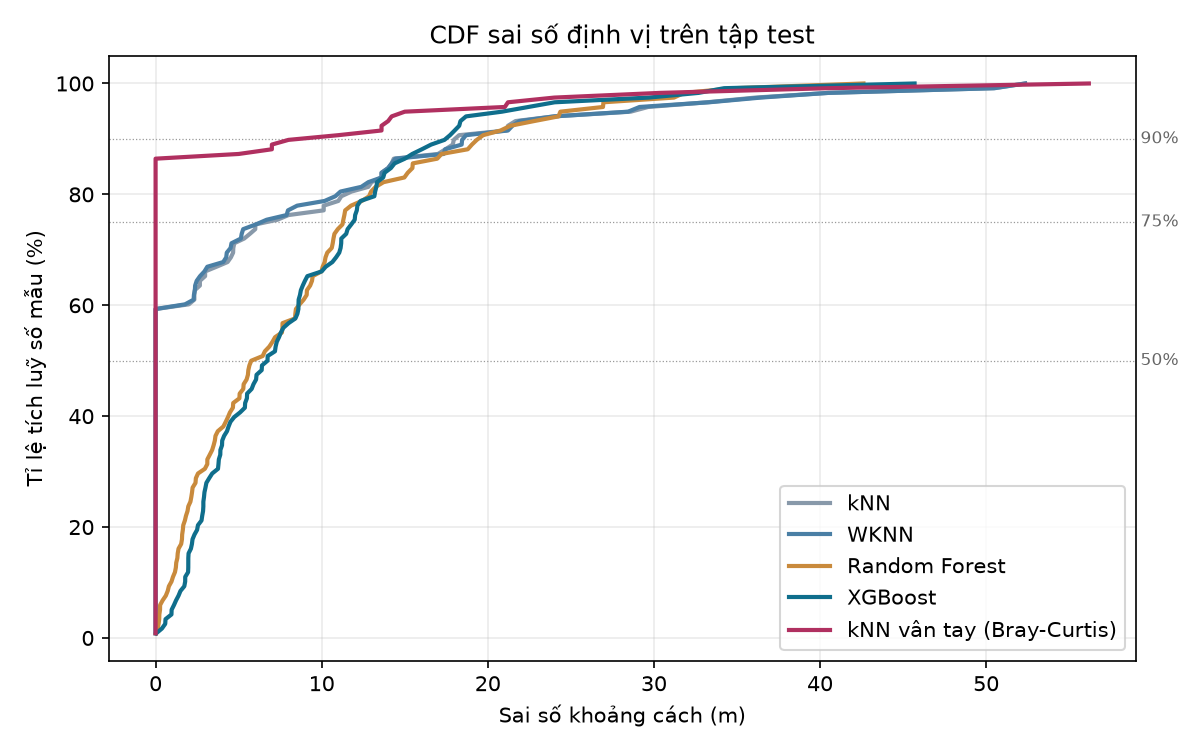
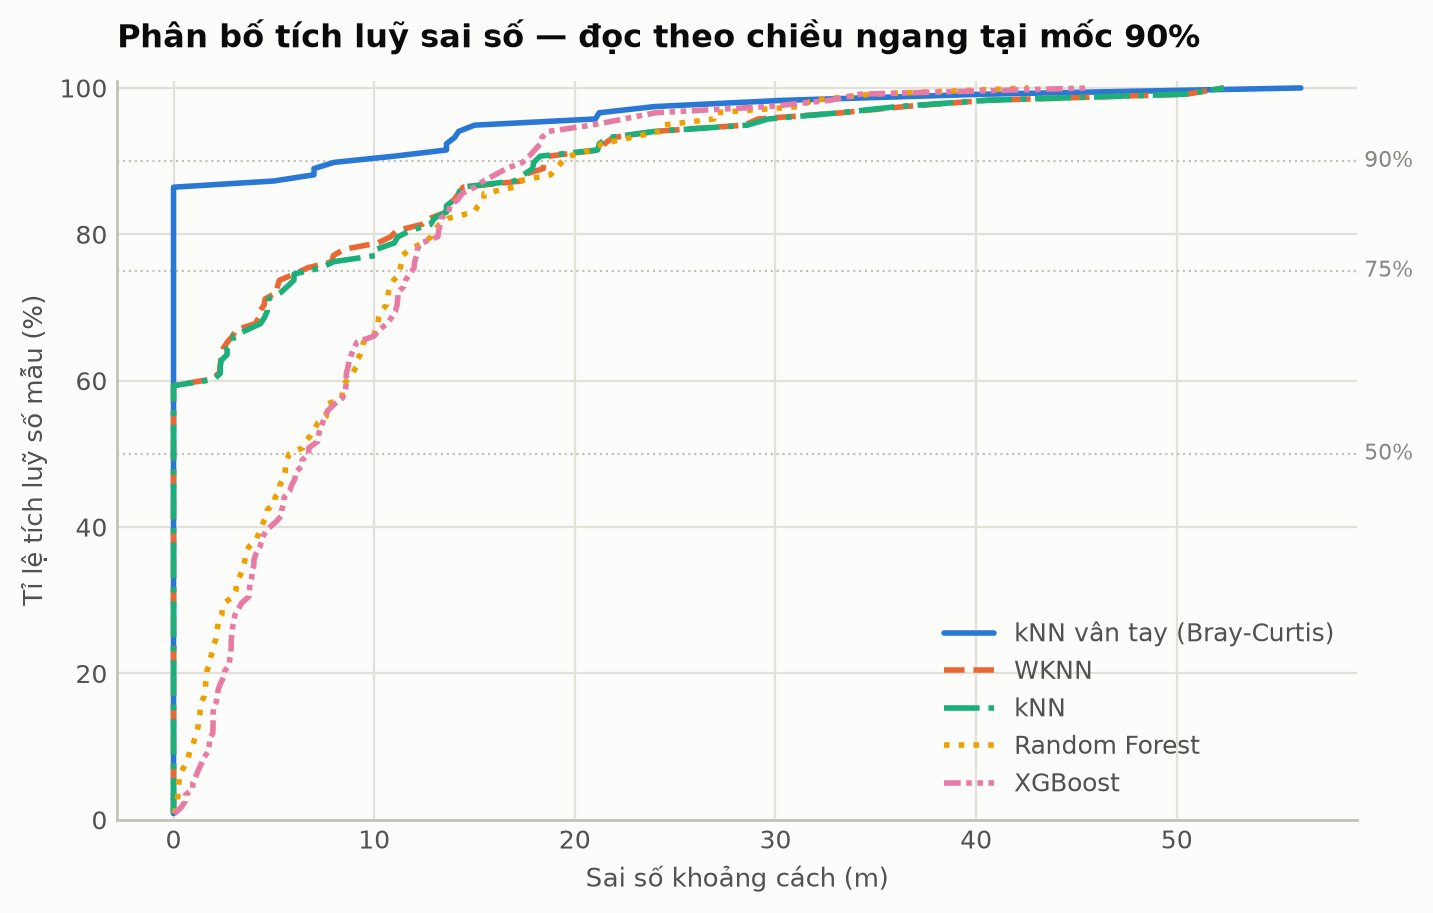
feat(report): sinh biểu đồ báo cáo bằng lệnh, thêm hình hiệu quả gộp
Chuyển mã vẽ từ notebook vào ml/report.py để hình không lệch số liệu sau mỗi
lần huấn luyện. Trước đó hình sinh từ notebook nên phải nhớ chạy tay, và bộ
hình trong kho đang cũ hơn model_metadata.json một tiếng rưỡi.

Năm hình trong reports/figures:

- model_comparison.png    cột ngang, sai số trung bình và CDF90 của 5 mô hình
- cdf_error.png           đường CDF, kiểu nét khác nhau để in đen trắng vẫn đọc
- aggregation_effect.png  MỚI, hiệu quả gộp 3 lần quét — kết quả quan trọng nhất
- error_heatmap.png       sai số theo vị trí, ramp một sắc
- feature_importance.png  15 AP đóng góp nhiều nhất

Bảng màu lấy từ bảng phân loại đã qua validator trên nền sáng: toàn bộ sáu
phép kiểm đều đạt, riêng ba màu aqua, yellow, magenta có tương phản dưới 3:1
nên mọi biểu đồ cột đều ghi nhãn giá trị hiện rõ để bù.

Hai lỗi phát hiện khi mở ảnh ra xem, không phải khi đọc mã:

- Chú giải đè lên cột XGBoost và nhãn giá trị của nó. Cột dài nhất chạm sát
  mép phải nên mọi vị trí bên trong đều va chạm; chuyển ra ngoài vùng vẽ.

- feature_importance.png có nhãn trùng nhau: 12:64:83 và 12:65:58 mỗi cái xuất
  hiện hai lần. Do cắt 8 ký tự cuối làm mất octet đầu, mà 88:dc:97 và 8e:dc:97
  chính là hai BSSID ảo của cùng một radio và chỉ khác nhau ở đó.

Sửa số liệu trong aggregation_effect.png: cột "một lần quét" trước tính trung
bình theo từng điểm nên sai số lớn nhất ra 18,73 m, trong khi ba cột kia là
sai số thật của kết quả gộp. Nay cả bốn cột cùng trả lời một câu hỏi — hỏi
[…]

diff --git a/ml/report.py b/ml/report.py
@@ -1,0 +1,285 @@
+"""Sinh biểu đồ báo cáo từ artifact hiện có.
+
+    python -m ml.report
+
+Đọc `artifacts/model_metadata.json` và các tệp model đã huấn luyện, ghi ảnh vào
+`reports/figures/`. Chạy sau mỗi lần `python -m ml.train` để hình không lệch số
+liệu — đây là lý do module này tồn tại thay vì để mã vẽ nằm trong notebook.
+
+Bảng màu lấy từ bảng phân loại đã kiểm định (blue, orange, aqua, yellow,
+magenta). Ba màu aqua, yellow, magenta có tương phản dưới 3:1 trên nền sáng nên
+mọi biểu đồ cột đều ghi nhãn giá trị hiện rõ, và biểu đồ đường dùng thêm kiểu nét
+đứt khác nhau — vừa để bù tương phản, vừa để đọc được khi in đen trắng.
+
+Hình xuất ra dùng cho báo cáo in nên chỉ làm một chế độ sáng, không làm nền tối.
+"""
+
+from __future__ import annotations
+
+import json
+import sys
+
+import joblib
+import matplotlib
+import numpy as np
+import pandas as pd
+
+matplotlib.use("Agg")
+import matplotlib.pyplot as plt  # noqa: E402
+
+from ml import config, evaluate, postprocess  # noqa: E402
+
+for _luong in (sys.stdout, sys.stderr):
+    if hasattr(_luong, "reconfigure"):
+        try:
+            _luong.reconfigure(encoding="utf-8", errors="replace")
+        except (ValueError, OSError):
+            pass
+
+# --- Bảng màu đã qua validator (chế độ sáng, nền #fcfcfb) ---
+SERIES = ["#2a78d6", "#eb6834", "#1baf7a", "#eda100", "#e87ba4"]
+NET = ["-", "--", "-.", ":", (0, (3, 1, 1, 1, 1, 1))]
+
+SURFACE = "#fcfcfb"
+MUC_CHINH = "#0b0b0b"
+MUC_PHU = "#52514e"
+MUC_MO = "#898781"
+LUOI = "#e1e0d9"
+TRUC = "#c3c2b7"
+
+# Ramp một sắc cho mã hoá độ lớn liên tục
+RAMP_XANH = ["#cde2fb", "#9ec5f4", "#6da7ec", "#3987e5", "#256abf", "#184f95", "#0d366b"]
+
+
+def _khung(ax) -> None:
+    """Lưới và trục lùi về sau, để dữ liệu nổi lên trước."""
+    ax.set_facecolor(SURFACE)
+    ax.grid(True, color=LUOI, linewidth=0.8, zorder=0)
+    ax.set_axisbelow(True)
+    for vt in ("top", "right"):
+        ax.spines[vt].set_visible(False)
+    for vt in ("left", "bottom"):
+        ax.spines[vt].set_color(TRUC)
+        ax.spines[vt].set_linewidth(1)
+    ax.tick_params(colors=MUC_MO, labelsize=9, length=0)
+    for nhan in ax.get_xticklabels() + ax.get_yticklabels():
+        nhan.set_color(MUC_PHU)
+
+
+def _luu(fig, ten: str) -> str:
+    thu_muc = config.REPORTS_DIR / "figures"
+    thu_muc.mkdir(parents=True, exist_ok=True)
+    duong_dan = thu_muc / ten
+    fig.savefig(duong_dan, dpi=200, facecolor=SURFACE, bbox_inches="tight")
+    plt.close(fig)
+    return f"  {duong_dan.stat().st_size / 1024:6.1f} KB  {duong_dan.name}"
+
+
+def nap():
+    meta = json.loads((config.ARTIFACTS_DIR / "model_metadata.json").read_text(encoding="utf-8"))
+    fl = json.loads((config.ARTIFACTS_DIR / config.FEATURE_LIST_JSON).read_text(encoding="utf-8"))
+    te = pd.read_csv(config.SPLITS_DIR / "test.csv")
+    ap = fl["ap_columns"]
+
+    loi, du_doan = {}, {}
+    for khoa, tt in meta["cac_mo_hinh"].items():
+        m = joblib.load(config.ARTIFACTS_DIR / f"model_{khoa}.pkl")
+        p = m.predict(te[ap].to_numpy(float))
+        du_doan[tt["ten"]] = p
+        loi[tt["ten"]] = evaluate.khoang_cach_loi(te[["x", "y"]].to_numpy(float), p)
+
+    # xếp theo sai số trung bình để màu gắn với thứ hạng ổn định giữa các hình
+    thu_tu = sorted(loi, key=lambda t: loi[t].mean())
+    return meta, te, ap, loi, du_doan, thu_tu
+
+
+# ---------------------------------------------------------------- hình 1
+def so_sanh_mo_hinh(loi: dict, thu_tu: list[str]) -> str:
+    """Cột ngang: sai số trung bình và CDF90. Cùng đơn vị mét nên chung một trục."""
+    tb = [loi[t].mean() for t in thu_tu]
+    p90 = [np.percentile(loi[t], 90) for t in thu_tu]
+    vt = np.arange(len(thu_tu))
+    cao = 0.36
+
+    fig, ax = plt.subplots(figsize=(8.4, 3.6))
+    _khung(ax)
+    ax.barh(vt - cao / 2 - 0.01, tb, cao, color=SERIES[0], label="Sai số trung bình", zorder=3)
+    ax.barh(vt + cao / 2 + 0.01, p90, cao, color=SERIES[1], label="CDF90", zorder=3)
+
+    for i, (a, b) in enumerate(zip(tb, p90)):
+        ax.text(a + 0.35, i - cao / 2 - 0.01, f"{a:.2f}", va="center", fontsize=8.5, color=MUC_CHINH)
+        ax.text(b + 0.35, i + cao / 2 + 0.01, f"{b:.2f}", va="center", fontsize=8.5, color=MUC_CHINH)
+
+    ax.set_yticks(vt)
+    ax.set_yticklabels(thu_tu, fontsize=9)
+    ax.invert_yaxis()
+    ax.set_xlabel("Sai số khoảng cách (m)", color=MUC_PHU, fontsize=9.5)
+    ax.set_xlim(0, max(p90) * 1.16)
+    ax.set_title("Sai số định vị trên tập test, một lần quét",
+                 color=MUC_CHINH, fontsize=11.5, fontweight="bold", loc="left", pad=30)
+    # Đặt chú giải ngoài vùng vẽ: cột dài nhất chạm sát mép phải nên mọi vị trí
+    # bên trong đều đè lên dữ liệu hoặc nhãn giá trị.
+    ax.legend(frameon=False, fontsize=9, labelcolor=MUC_PHU, ncol=2,
+              loc="lower left", bbox_to_anchor=(0, 1.005))
+    return _luu(fig, "model_comparison.png")
+
+
+# ---------------------------------------------------------------- hình 2
+def cdf(loi: dict, thu_tu: list[str]) -> str:
+    """Đường CDF. Kiểu nét khác nhau để đọc được cả khi in đen trắng."""
+    fig, ax = plt.subplots(figsize=(8, 4.8))
+    _khung(ax)
+
+    for i, ten in enumerate(thu_tu):
+        x, y = evaluate.duong_cdf(loi[ten])
+        ax.plot(x, y, color=SERIES[i], linestyle=NET[i], linewidth=2,
+                label=ten, zorder=3, solid_capstyle="round")
+
+    for p in (50, 75, 90):
+        ax.axhline(p, color=TRUC, linewidth=0.8, linestyle=":", zorder=1)
+        ax.text(ax.get_xlim()[1], p, f" {p}%", va="center", fontsize=8, color=MUC_MO)
+
+    ax.set_xlabel("Sai số khoảng cách (m)", color=MUC_PHU, fontsize=9.5)
+    ax.set_ylabel("Tỉ lệ tích luỹ số mẫu (%)", color=MUC_PHU, fontsize=9.5)
+    ax.set_ylim(0, 101)
+    ax.set_title("Phân bố tích luỹ sai số — đọc theo chiều ngang tại mốc 90%",
+                 color=MUC_CHINH, fontsize=11.5, fontweight="bold", loc="left", pad=12)
+    ax.legend(frameon=False, fontsize=9, loc="lower right", labelcolor=MUC_PHU)
+    return _luu(fig, "cdf_error.png")
+
+
+# ---------------------------------------------------------------- hình 3
+def hieu_qua_gop(te: pd.DataFrame, du_doan: dict, thu_tu: list[str]) -> str:
+    """Bốn cách gộp lần quét, so trên sai số trung bình và lớn nhất."""
+    p = du_doan[thu_tu[0]]
+    y = te[["x", "y"]].to_numpy(float)
+    nhom = [nh["_i"].to_numpy() for _, nh in te.assign(_i=range(len(te))).groupby("rp_id")]
+
+    def do(fn):
+        return np.array([np.linalg.norm(fn(p[i]) - y[i[0]]) for i in nhom])
+
+    def binh_chon(P):
+        u, c = np.unique(P, axis=0, return_counts=True)
+        return u[c.argmax()]
+
+    cach = {
+        # Một lần quét: lấy sai số của TỪNG lần quét, không lấy trung bình theo
+        # điểm. Cả bốn cột phải cùng trả lời một câu hỏi — người dùng hỏi một
+        # lần thì nhận sai số bao nhiêu — nên gộp trung bình trước sẽ giấu mất
+        # đúng những ca tệ nhất mà việc gộp sinh ra để xử lý.
+        "Một lần quét": evaluate.khoang_cach_loi(y, p),
+        "Bình chọn đa số": do(binh_chon),
+        "Trung vị toạ độ": do(postprocess.trung_vi_toa_do),
+        "Đồng thuận không gian": do(postprocess.dong_thuan_khong_gian),
+    }
+
+    ten = list(cach)
+    tb = [cach[t].mean() for t in ten]
+    mx = [cach[t].max() for t in ten]
+    vt = np.arange(len(ten))
+    rong = 0.36
+
+    fig, (ax1, ax2) = plt.subplots(1, 2, figsize=(10, 3.9))
+    for ax, gt, nhan, mau in ((ax1, tb, "Sai số trung bình (m)", SERIES[0]),
+                              (ax2, mx, "Sai số lớn nhất (m)", SERIES[1])):
+        _khung(ax)
+        ax.bar(vt, gt, rong * 1.6, color=mau, zorder=3)
+        for i, v in enumerate(gt):
+            ax.text(i, v + max(gt) * 0.03, f"{v:.2f}", ha="center",
+                    fontsize=9, color=MUC_CHINH, fontweight="bold")
+        ax.set_xticks(vt)
+        ax.set_xticklabels([t.replace(" ", "\n", 1) for t in ten], fontsize=8.5)
+        ax.set_ylabel(nhan, color=MUC_PHU, fontsize=9.5)
+        ax.set_ylim(0, max(gt) * 1.18)
+
+    fig.suptitle("Hiệu quả của việc gộp 3 lần quét tại cùng vị trí",
+                 color=MUC_CHINH, fontsize=11.5, fontweight="bold", x=0.06, ha="left", y=1.02)
+    fig.tight_layout()
+    return _luu(fig, "aggregation_effect.png")
+
+
+# ---------------------------------------------------------------- hình 4
+def ban_do_loi(te: pd.DataFrame, du_doan: dict, thu_tu: list[str]) -> str:
+    """Sai số theo vị trí. Độ lớn liên tục nên dùng ramp một sắc."""
+    theo_diem = evaluate.loi_theo_diem(
+        te["rp_id"], te[["x", "y"]].to_numpy(float), du_doan[thu_tu[0]])
+
+    from matplotlib.colors import LinearSegmentedColormap
+    cmap = LinearSegmentedColormap.from_list("xanh", RAMP_XANH)
+
+    fig, ax = plt.subplots(figsize=(8.6, 5.6))
+    _khung(ax)
+    sc = ax.scatter(theo_diem["x"], theo_diem["y"], c=theo_diem["loi_trung_binh"],
+                    s=330, cmap=cmap, edgecolor=SURFACE, linewidth=1.6, zorder=3)
+
+    for r in theo_diem.itertuples():
+        sang = r.loi_trung_binh < theo_diem["loi_trung_binh"].max() * 0.55
+        ax.annotate(r.rp_id.replace("RP", ""), (r.x, r.y), fontsize=7,
+                    ha="center", va="center", zorder=4,
+                    color=MUC_CHINH if sang else "#ffffff")
+
+    cb = fig.colorbar(sc, ax=ax, pad=0.02)
+    cb.set_label("Sai số trung bình (m)", color=MUC_PHU, fontsize=9.5)
+    cb.ax.tick_params(colors=MUC_MO, labelsize=8.5, length=0)
+    cb.outline.set_visible(False)
+
+    ax.set_xlabel("x (m)", color=MUC_PHU, fontsize=9.5)
+    ax.set_ylabel("y (m)", color=MUC_PHU, fontsize=9.5)
+    ax.set_aspect("equal", adjustable="datalim")
+    ax.set_title(f"Sai số theo vị trí — {thu_tu[0]}",
+                 color=MUC_CHINH, fontsize=11.5, fontweight="bold", loc="left", pad=12)
+    return _luu(fig, "error_heatmap.png")
+
+
+# ---------------------------------------------------------------- hình 5
+def do_quan_trong(ap: list[str]) -> str | None:
+    """Độ quan trọng đặc trưng của XGBoost, tách theo trục x và y."""
+    tep = config.ARTIFACTS_DIR / "model_xgboost_model.pkl"
+    if not tep.exists():
+        return None
+
+    from ml.models import xgboost_model
+    q = pd.DataFrame(xgboost_model.do_quan_trong_dac_trung(joblib.load(tep), ap))
+    q["tong"] = q.sum(axis=1)
+    q = q.sort_values("tong", ascending=False).head(15)
+
+    vt = np.arange(len(q))
+    cao = 0.38
+    fig, ax = plt.subplots(figsize=(8, 5.2))
+    _khung(ax)
+    ax.barh(vt - cao / 2, q["x"], cao, color=SERIES[0], label="trục x", zorder=3)
+    ax.barh(vt + cao / 2, q["y"], cao, color=SERIES[1], label="trục y", zorder=3)
+
+    # Phải giữ octet đầu: 88:dc:97 và 8e:dc:97 là hai BSSID ảo của CÙNG một radio
+    # và chỉ khác nhau ở đó. Cắt mất octet đầu thì nhãn trùng nhau, không đọc được.
+    ax.set_yticks(vt)
+    ax.set_yticklabels([f"{b[:2]}…{b[-8:]}" for b in q.index],
+                       fontsize=8, fontfamily="monospace")
+    ax.invert_yaxis()
+    ax.set_xlabel("Độ quan trọng", color=MUC_PHU, fontsize=9.5)
+    ax.set_title("15 access point đóng góp nhiều nhất — XGBoost",
+                 color=MUC_CHINH, fontsize=11.5, fontweight="bold", loc="left", pad=12)
+    ax.legend(frameon=False, fontsize=9, labelcolor=MUC_PHU)
+    return _luu(fig, "feature_importance.png")
+
+
+def chay() -> None:
+    meta, te, ap, loi, du_doan, thu_tu = nap()
+    print(f"Huấn luyện lúc {meta['huan_luyen_luc']} · {len(thu_tu)} mô hình · "
+          f"{len(te)} mẫu test\n")
+
+    ket_qua = [
+        so_sanh_mo_hinh(loi, thu_tu),
+        cdf(loi, thu_tu),
+        hieu_qua_gop(te, du_doan, thu_tu),
+        ban_do_loi(te, du_doan, thu_tu),
+        do_quan_trong(ap),
+    ]
+    for d in ket_qua:
+        if d:
+            print(d)
+    print(f"\nĐã ghi vào {config.REPORTS_DIR / 'figures'}")
+
+
+if __name__ == "__main__":
+    chay()

diff --git a/ml/train.py b/ml/train.py
@@ -24,6 +24,7 @@ Sinh ra:
 from __future__ import annotations
 
 import argparse
+import hashlib
 import json
 import sys
 import time
@@ -65,18 +66,35 @@ def nap_du_lieu() -> tuple[dict, list[str]]:
     return tap, ap_cols
 
 
-def _to_hop(luoi: dict) -> list[dict]:
-    """Bung dict lưới thành danh sách các bộ tham số cụ thể."""
+def _to_hop(luoi: dict, module=None) -> list[dict]:
+    """Bung dict lưới thành danh sách các bộ tham số cụ thể.
+
+    Bỏ tổ hợp trùng lặp nếu module khai báo hàm `tuong_duong`. Ví dụ với kNN vân
+    tay, khi n_neighbors=1 thì tham số power không có tác dụng nên ba giá trị
+    power khác nhau cho ra ba mô hình y hệt.
+    """
     if not luoi:
         return [{}]
     ten = list(luoi)
-    return [dict(zip(ten, gt)) for gt in product(*(luoi[k] for k in ten))]
+    tat_ca = [dict(zip(ten, gt)) for gt in product(*(luoi[k] for k in ten))]
+
+    rut_gon = getattr(module, "tuong_duong", None)
+    if rut_gon is None:
+        return tat_ca
+
+    da_thay, ket_qua = set(), []
+    for ts in tat_ca:
+        khoa = rut_gon(ts)
+        if khoa not in da_thay:
+            da_thay.add(khoa)
+            ket_qua.append(ts)
+    return ket_qua
 
 
 def quet_luoi(module, X_tr, y_tr, X_va, y_va, nhanh: bool = False) -> tuple[dict, float]:
     """Thử mọi tổ hợp, trả về (tham số tốt nhất, sai số trung bình trên validation)."""
     luoi = getattr(module, "LUOI_NHANH", module.LUOI_THAM_SO) if nhanh else module.LUOI_THAM_SO
-    to_hop = _to_hop(luoi)
+    to_hop = _to_hop(luoi, module)
 
     tot_nhat, loi_tot_nhat = None, float("inf")
     for i, tham_so in enumerate(to_hop, 1):
@@ -173,10 +191,25 @@ def run(ten_mo_hinh: list[str] | None = None, nhanh: bool = False) -> pd.DataFra
         joblib.dump(r["model"], config.ARTIFACTS_DIR / f"model_{khoa}.pkl")
 
     khoa_tot_nhat = tot_nhat["module"].__name__.rsplit(".", 1)[-1]
+    hop_dong = json.loads(
+        (config.ARTIFACTS_DIR / config.FEATURE_LIST_JSON).read_text(encoding="utf-8")
+    )
     metadata = {
         "huan_luyen_luc": bat_dau.isoformat(timespec="seconds"),
         "mo_hinh_active": khoa_tot_nhat,
         "file_active": f"model_{khoa_tot_nhat}.pkl",
+        # Dấu vân của hợp đồng dữ liệu lúc huấn luyện. Backend phải đối chiếu ba
+        # trường này với feature_list.json đang nạp; lệch nghĩa là model và hợp
+        # đồng sinh ra từ hai lần chạy pipeline khác nhau, dự đoán sẽ sai âm thầm.
+        # missing_rssi_value đặc biệt nguy hiểm vì nó bằng min(RSSI) - 1 nên đổi
+        # theo dữ liệu: thêm một lần quét yếu hơn -95 dBm là giá trị này đổi.
+        "hop_dong_du_lieu": {
+            "missing_rssi_value": hop_dong["missing_rssi_value"],
+            "feature_count": hop_dong["feature_count"],
+            "ap_columns_sha1": hashlib.sha1(
+                "\n".join(hop_dong["ap_columns"]).encode("utf-8")
+            ).hexdigest(),
+        },
         "so_dac_trung": len(ap_cols),
         "so_mau": {k: len(v) for k, v in tap.items()},
         "luoi": "rut_gon" if nhanh else "day_du",

diff --git a/ml/models/fingerprint_knn.py b/ml/models/fingerprint_knn.py
@@ -120,3 +120,15 @@ def build(
     top: int | None = None,
 ) -> DinhViPhanLop:
     return DinhViPhanLop(beta=beta, n_neighbors=n_neighbors, power=power, top=top)
+
+
+def tuong_duong(tham_so: dict) -> tuple:
+    """Khoá nhận dạng các bộ tham số cho ra mô hình y hệt nhau.
+
+    Khi chỉ lấy một láng giềng thì trọng số `power` không được dùng tới, nên
+    (beta=2, k=1, power=1) và (beta=2, k=1, power=8) là cùng một mô hình. Không
+    khử thì lưới 36 tổ hợp có 8 tổ hợp chạy thừa.
+    """
+    if tham_so.get("n_neighbors") == 1:
+        return (tham_so.get("beta"), 1, tham_so.get("top"))
+    return tuple(sorted(tham_so.items()))
